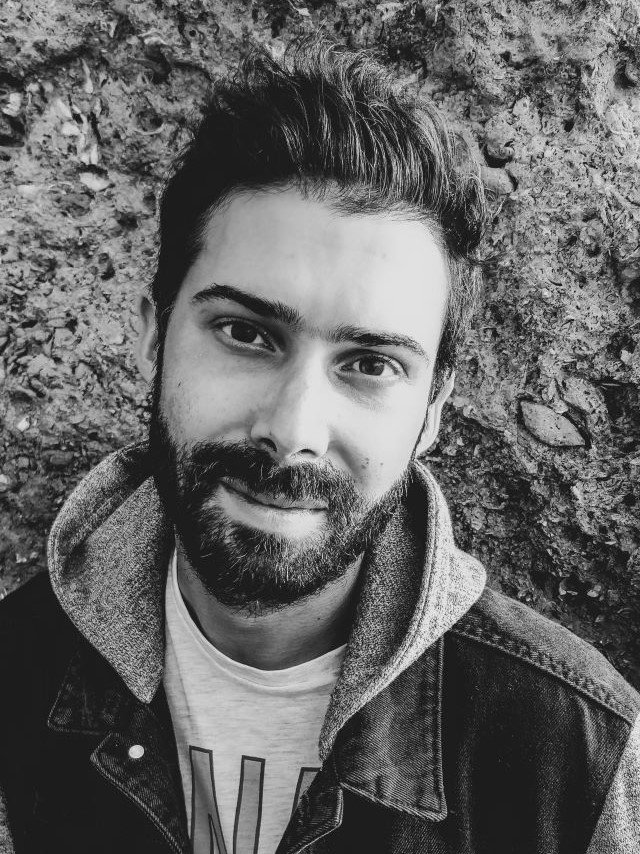
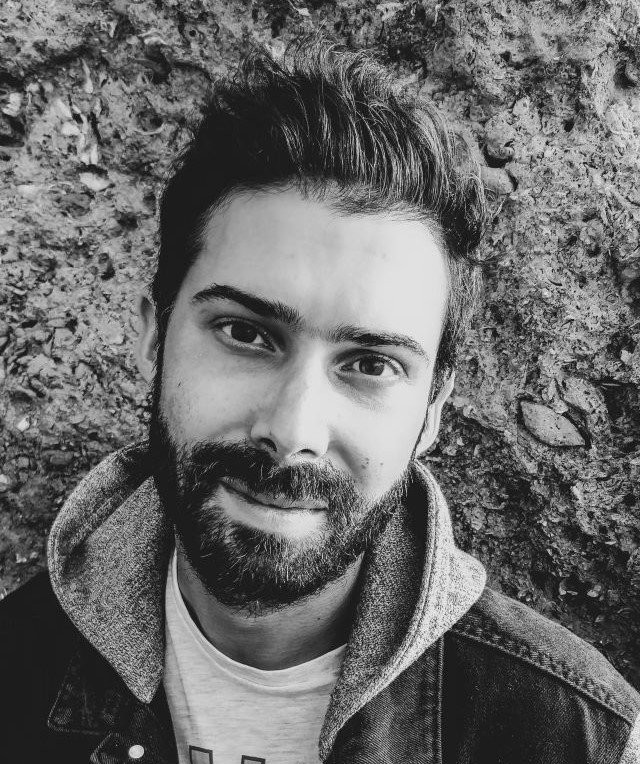
final mvp

diff --git a/src/components/about/About.css b/src/components/about/About.css
@@ -1,5 +1,5 @@
 article img {
-    justify-self: end;
+    justify-self: center;
 }
 
 .about-article {
@@ -17,15 +17,15 @@ h3 {
 }
 
 /* Media Queries */
-@media screen and (max-width: 992px) {
-    article img {
-        justify-self: center;
-    }
-}
-
 @media screen and (min-width: 992px) {
     .about-article {
         grid-template-columns: 1fr 1fr;
+        /* padding: 0 8rem; */
+    }
+}
+
+@media screen and (min-width: 1367px) {
+    .about-article {
         padding: 0 8rem;
     }
 }

diff --git a/src/components/contact/Contact.css b/src/components/contact/Contact.css
@@ -156,6 +156,12 @@ input[type="submit"] {
     }
 }
 
+@media screen and (max-width: 375px) {
+    .contact-container ul li {
+        font-size: 12px;
+    }
+}
+
 @media (hover: hover) and (pointer: fine) {
     input[type="submit"]:hover {
         background-color: var(--purple);

diff --git a/src/components/about/About.js b/src/components/about/About.js
@@ -1,6 +1,6 @@
 import BackToTopButton from '../backToTopButton/BackToTopButton';
 import Footer from '../footer/Footer';
-import aboutImg from '../../assets/about2.jpg';
+import aboutImg from '../../assets/about.jpg';
 import './About.css';
 
 function About() {
